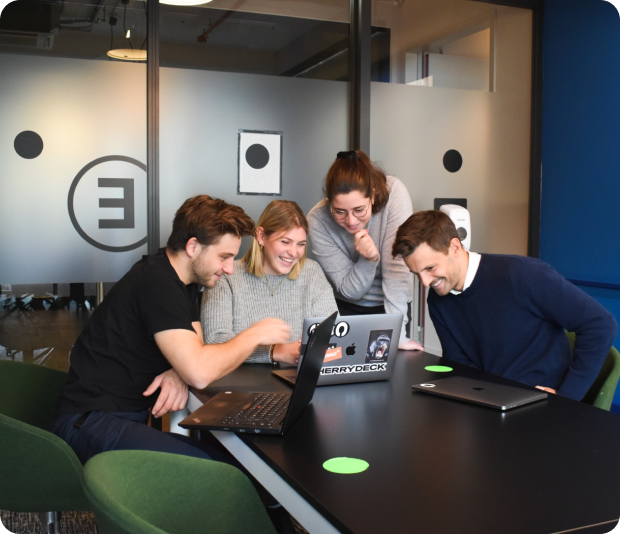
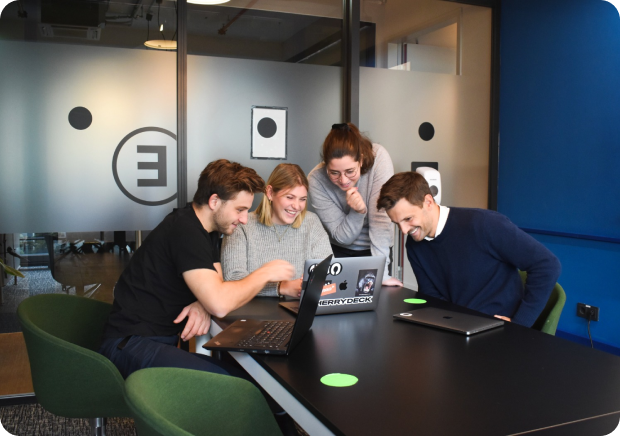
hero-page-done

diff --git a/app/HeroSection.tsx b/app/HeroSection.tsx
@@ -12,24 +12,26 @@ import hero from "@/assets/hero.png";
 const HeroSection = () => {
  
   return (
-    <div className="overflow-x-auto">  
-     <div className="flex md:flex-row flex-col py-10 md:space-y-4 md:space-x-20">
-        <div className="flex flex-row space-y-20  ">
-       
-             <div className="md:py-40 p-4 md:p-10 max-w-4xl">
-                   <h3 className="p-2 text-4xl leading-tight font-bold md:w-full pb-4">Consultant for all your business needs.</h3>
-                   <h3 className="p-2 text-md text-slate-700">MLM Consultant Asia is a leading India-based software company focused on delivering the best and most cost-effective solutions to our clients. Mini InfoTech provides a variety of software services, including Software Development, Web Development, Web Designing, MLM Software, and website hosting services, among others. We have served our clients with comprehensive web solutions – from strategic planning and online marketing decisions to the actual designing, development, and implementation, including testing of the projects. Our support team is always available for the maintenance and enhancement of the project.</h3>
-                   <div className="py-4 md:mt-8">  
-                   <Link href="/Qoute"  className="bg-blue-600 text-white rounded-full px-6 py-3.5 text-xl">Get a Quote</Link>
-                   </div>
-             </div>
-            
-        </div>
-        <div className="mt-20">
-            <Image src={hero} alt="hero" className="w-fit mx-auto"  /> 
-        </div>
-     </div>
-     </div>
+    <div>
+    <div className="grid grid-cols-2 md:gap-8  gap-6 p-10 ">
+    <div className="grid md:col-span-1 col-span-2">
+          <div className="flex flex-col gap-4 font-sans md:mt-20">
+              <div className="font-bold text-3xl">Consultant for all your business needs.</div>
+              <span className="text-xl text-slate-700 font-normal">
+              MLM Consultant Asia is a leading India-based software company focused on delivering the best and most cost-effective solutions to our clients. Mini InfoTech provides a variety of software services, including Software Development, Web Development, Web Designing, MLM Software, and website hosting services, among others. We have served our clients with comprehensive web solutions – from strategic planning and online marketing decisions to the actual designing, development, and implementation, including testing of the projects. Our support team is always available for the maintenance and enhancement of the project.
+              </span>    
+              <div className="py-4 md:mt-8">  
+                   <Link href="/Qoute"  className="bg-blue-600 text-white rounded-full px-5 py-3 text-lg">Get a Quote</Link>
+              </div>           
+          </div>
+         </div> 
+    <div className="md:col-span-1 col-span-2  md:rounded-xl object-cover">
+                <Image src={hero} alt="" className='w-[100%] ' /> 
+            </div>
+           
+    </div>
+
+</div>
   );
 };
 

diff --git a/app/LogoSection.tsx b/app/LogoSection.tsx
@@ -33,13 +33,13 @@ const imageUrls = [
 const LogoSection = () => {
   return (
     <div className="sm:overflow-hidden" style={{ background: "linear-gradient(91.58deg, #101624 0%, #010203 100%)" }}>
-      <div className="text-center font-sans font-bold p-4 text-4xl text-white">
+      <div className="text-center font-sans font-bold p-8 text-4xl text-white">
         PARTNERS AND TECHNOLOGY
       </div>
       <div className="flex flex-wrap justify-center md:p-10">
         {imageUrls.map((logo, index) => (
           <div key={index} className="m-4">
-            <Image src={logo.url} alt={`Logo ${index + 1}`} width={140} height={180} />
+            <Image src={logo.url} alt={`Logo ${index + 1}`} width={90} height={180} />
           </div>
         ))}
       </div>

diff --git a/app/StatsSection.tsx b/app/StatsSection.tsx
@@ -10,10 +10,10 @@ const StatsSection = () => {
   return (
     <>
     <div style={backgroundStyle}>  
-      <div className="text-center text-white font-sans font-bold mt-4  p-5 text-4xl">
+      <div className="text-center text-white font-sans font-bold mt-6  p-14 text-4xl leading-tight tracking-wider">
         Award Winning MLM Consultant
       </div>
-      <div className="grid grid-cols-1 md:grid-cols-4 p-10 md:p-20 text-white " >
+      <div className="grid grid-cols-1 md:grid-cols-4 p-10 md:px-20 md:py-10  text-white " >
         {/* First Stat */}
         <div className="col-span-1 md:col-span-1">
           <div className="flex flex-col items-center">
